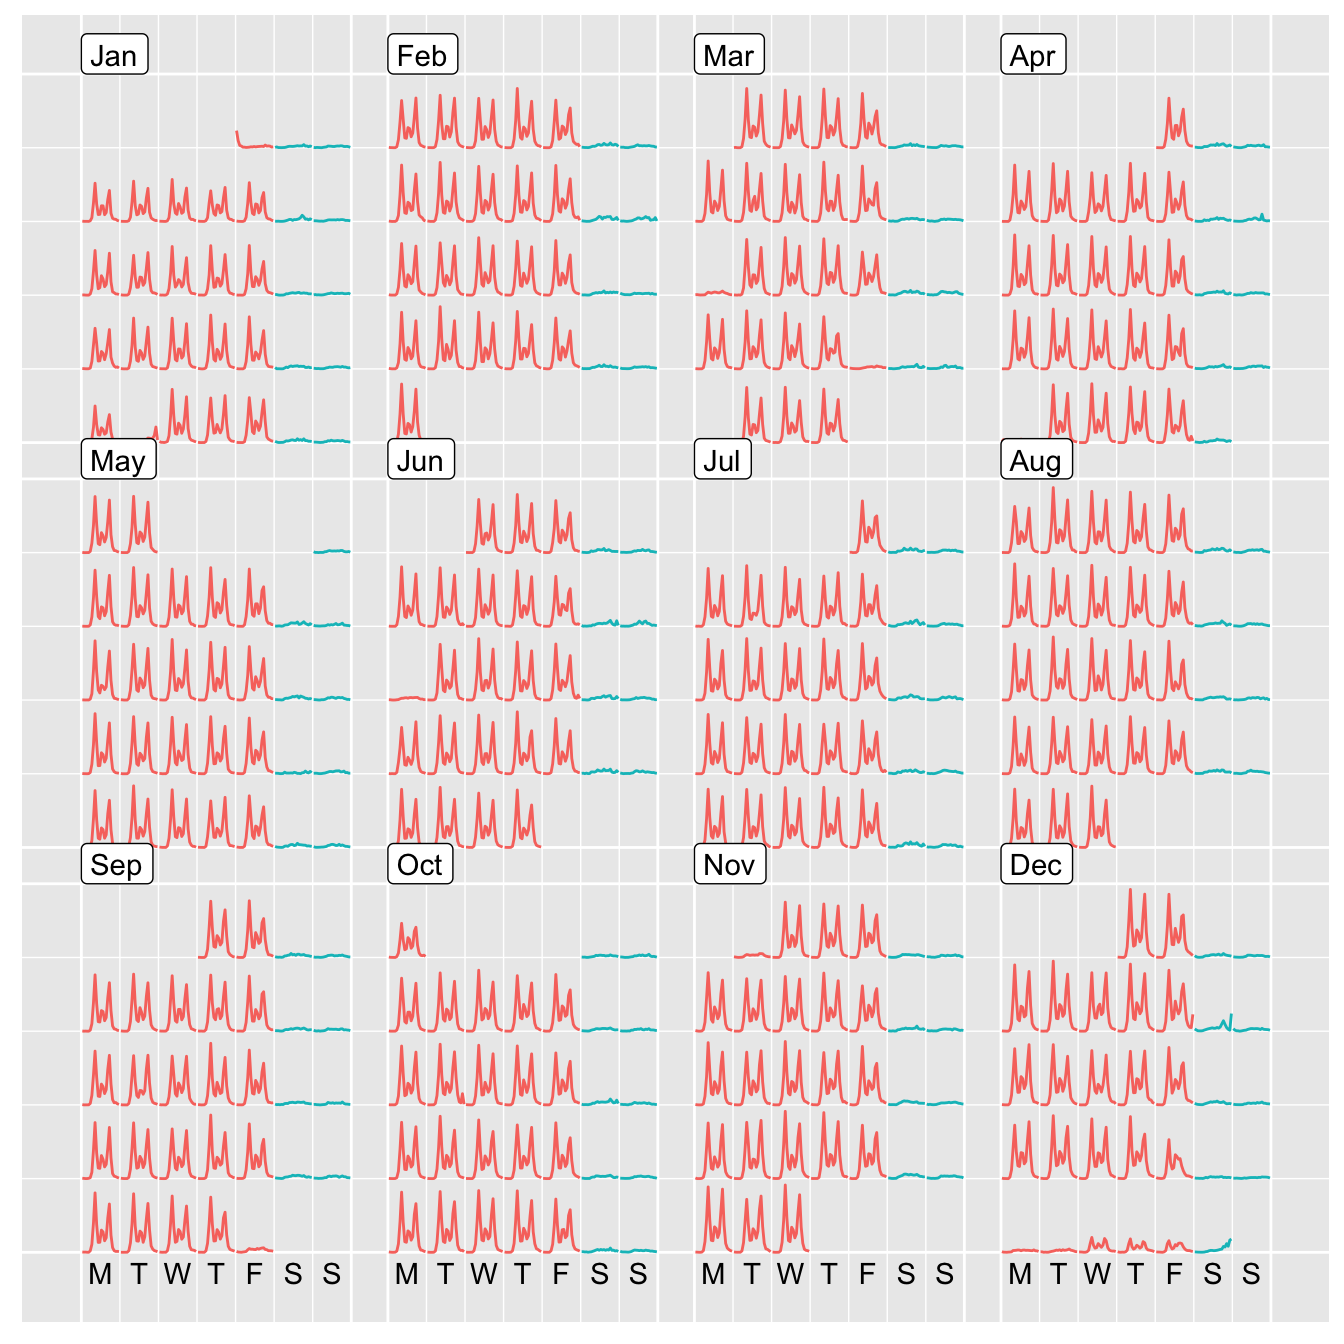
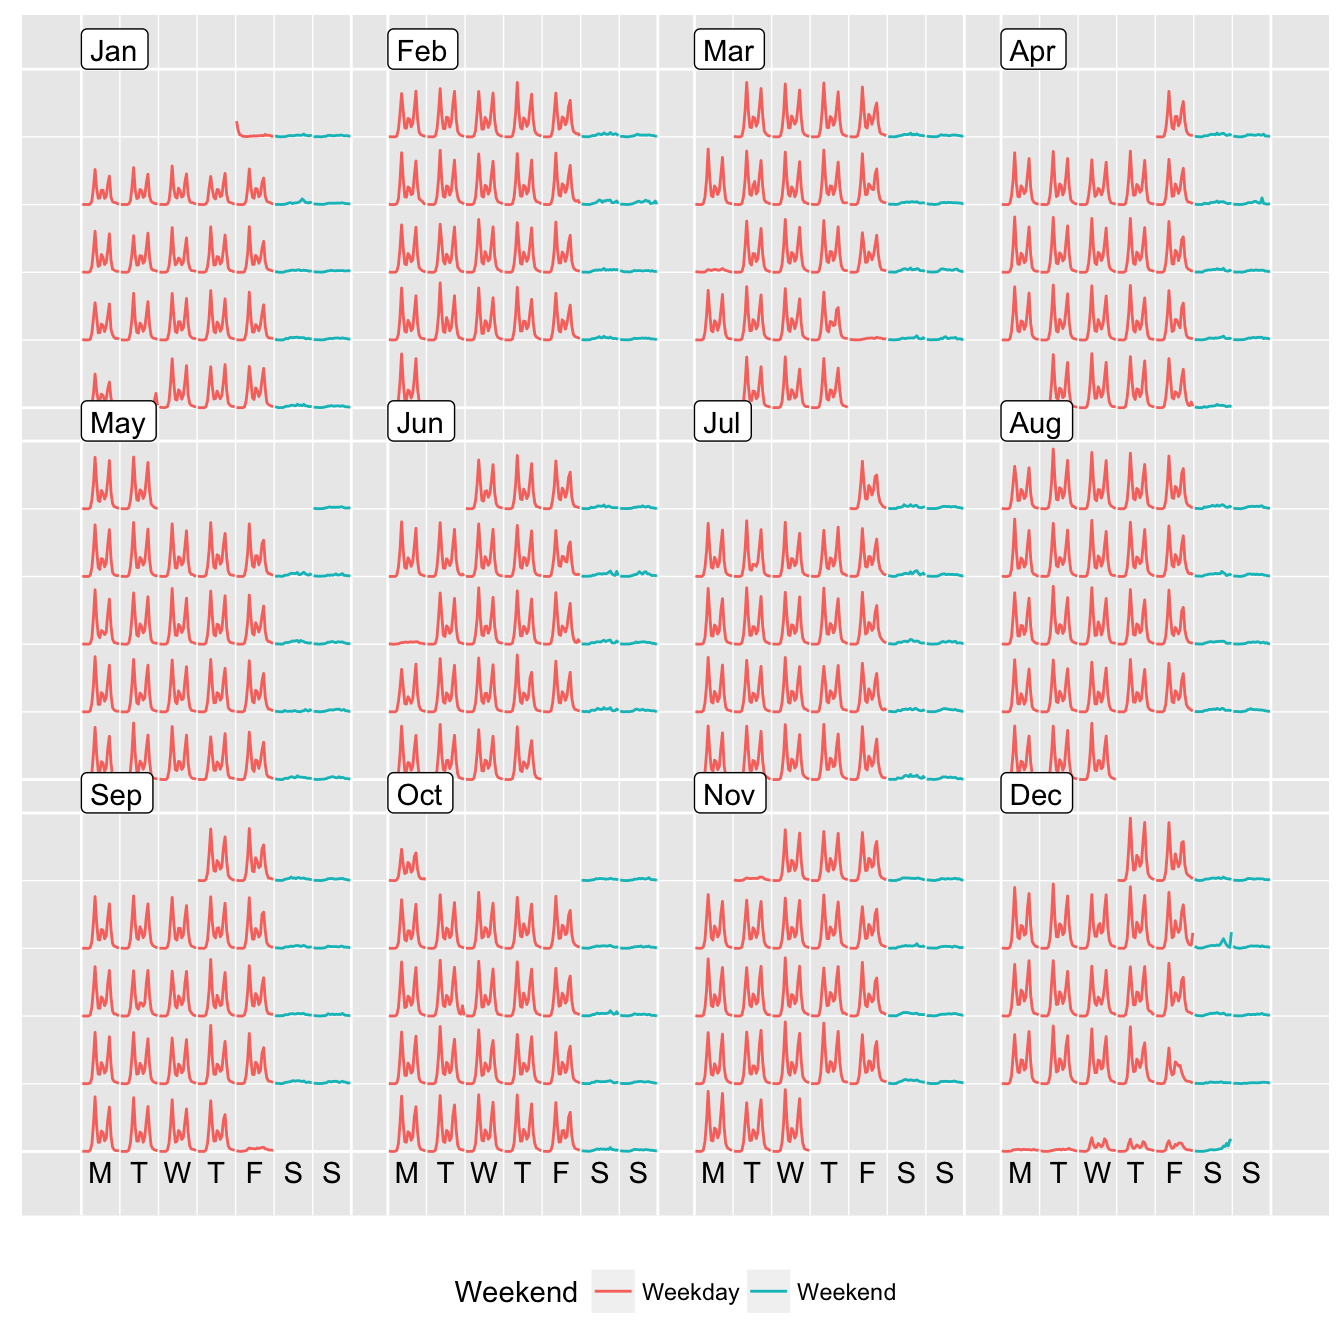
ready for winbuild

diff --git a/docs/index.html b/docs/index.html
@@ -76,7 +76,9 @@
 <div id="installation" class="section level2">
 <h2 class="hasAnchor">
 <a href="#installation" class="anchor"></a>Installation</h2>
-<p>You could install the development version from Github using</p>
+<p>You could install the stable version on CRAN:</p>
+<div class="sourceCode"><pre class="sourceCode r"><code class="sourceCode r"><span class="kw">install.packages</span>(<span class="st">"sugrrants"</span>)</code></pre></div>
+<p>You could also install the development version from Github using:</p>
 <div class="sourceCode"><pre class="sourceCode r"><code class="sourceCode r"><span class="co"># install.packages("devtools")</span>
 devtools<span class="op">::</span><span class="kw"><a href="http://www.rdocumentation.org/packages/devtools/topics/install_github">install_github</a></span>(<span class="st">"earowang/sugrrants"</span>, <span class="dt">build_vignettes =</span> <span class="ot">TRUE</span>)</code></pre></div>
 </div>
@@ -117,7 +119,7 @@ calendar_df
 <div class="sourceCode"><pre class="sourceCode r"><code class="sourceCode r">p &lt;-<span class="st"> </span>calendar_df <span class="op">%&gt;%</span>
 <span class="st">  </span><span class="kw">ggplot</span>(<span class="kw">aes</span>(<span class="dt">x =</span> .Time, <span class="dt">y =</span> .Hourly_Counts, <span class="dt">group =</span> Date, <span class="dt">colour =</span> Weekend)) <span class="op">+</span>
 <span class="st">  </span><span class="kw">geom_line</span>() <span class="op">+</span>
-<span class="st">  </span><span class="kw">theme</span>(<span class="dt">legend.position =</span> <span class="st">"none"</span>)
+<span class="st">  </span><span class="kw">theme</span>(<span class="dt">legend.position =</span> <span class="st">"bottom"</span>)
 <span class="kw"><a href="reference/frame-calendar.html">prettify</a></span>(p)</code></pre></div>
 <p><img src="man/figure/calendar-plot-1.png" width="672"></p>
 </div>
@@ -145,14 +147,16 @@ calendar_df
 <li>
 <a href="http://earo.me">Earo Wang</a> <br><small class="roles"> Author, maintainer </small> </li>
 <li>
-<a href="http://dicook.org">Di Cook</a> <br><small class="roles"> Author </small> </li>
+<a href="http://dicook.org">Di Cook</a> <br><small class="roles"> Author, thesis advisor </small> </li>
 <li>
-<a href="http://robjhyndman.com">Rob Hyndman</a> <br><small class="roles"> Author </small> </li>
+<a href="http://robjhyndman.com">Rob Hyndman</a> <br><small class="roles"> Author, thesis advisor </small> </li>
 </ul>
 <h2>Dev status</h2>
 <ul class="list-unstyled">
 <li><a href="https://travis-ci.org/earowang/sugrrants"><img src="https://travis-ci.org/earowang/sugrrants.svg?branch=master" alt="Travis-CI Build Status"></a></li>
+<li><a href="https://codecov.io/github/earowang/sugrrants?branch=master"><img src="https://img.shields.io/codecov/c/github/earowang/sugrrants/master.svg" alt="Coverage Status"></a></li>
 <li><a href="https://cran.r-project.org/package=sugrrants"><img src="http://www.r-pkg.org/badges/version/sugrrants" alt="CRAN_Status_Badge"></a></li>
+<li><a href="https://cran.r-project.org/package=sugrrants"><img src="http://cranlogs.r-pkg.org/badges/sugrrants" alt="Downloads"></a></li>
 </ul>
 </div>
 

diff --git a/docs/reference/index.html b/docs/reference/index.html
@@ -86,7 +86,7 @@
     <div class="page-header">
       <h1>
         Reference
-        <small>version&nbsp;0.0.1.9000</small>
+        <small>version&nbsp;0.1.0</small>
       </h1>
     </div>
 
@@ -116,7 +116,7 @@ linear algebra</p></td>
       </tbody><tbody>
         <tr>
           <th colspan="2">
-            <h2 id="section-geoms-and-stats-extension-to-temporal-context-data" class="hasAnchor"><a href="#section-geoms-and-stats-extension-to-temporal-context-data" class="anchor"></a>Geoms and stats extension to temporal-context data</h2>
+            <h2 id="section-geoms-and-stats-extension-for-temporal-context-data" class="hasAnchor"><a href="#section-geoms-and-stats-extension-for-temporal-context-data" class="anchor"></a>Geoms and stats extension for temporal-context data</h2>
             <p class="section-desc"></p>
           </th>
         </tr>
@@ -125,13 +125,13 @@ linear algebra</p></td>
           <td>
             <p><code><a href="sugrrants-geom.html">geom_acf</a></code> </p>
           </td>
-          <td><p>Compute autocorrelation for temporal data</p></td>
+          <td><p>Autocorrelation for temporal data</p></td>
         </tr><tr>
           <!--  -->
           <td>
             <p><code><a href="stat_acf.html">stat_acf</a></code> </p>
           </td>
-          <td><p>Compute autocorrelation for temporal data</p></td>
+          <td><p>Autocorrelation for temporal data</p></td>
         </tr>
       </tbody><tbody>
         <tr>
@@ -156,7 +156,7 @@ linear algebra</p></td>
     <h2>Contents</h2>
     <ul class="nav nav-pills nav-stacked">
       <li><a href="#section-calendar-based-graphics">Calendar based graphics</a></li>
-      <li><a href="#section-geoms-and-stats-extension-to-temporal-context-data">Geoms and stats extension to temporal-context data</a></li>
+      <li><a href="#section-geoms-and-stats-extension-for-temporal-context-data">Geoms and stats extension for temporal-context data</a></li>
       <li><a href="#section-handle-temporal-components">Handle temporal components</a></li>
     </ul>
   </div>

diff --git a/docs/news/index.html b/docs/news/index.html
@@ -89,13 +89,14 @@
     </div>
 
     <div class="contents">
-    <div id="sugrrants-0-0-1" class="section level1">
+    <div id="sugrrants-0-1-0" class="section level1">
 <h1 class="hasAnchor">
-<a href="#sugrrants-0-0-1" class="anchor"></a>sugrrants 0.0.1</h1>
+<a href="#sugrrants-0-1-0" class="anchor"></a>sugrrants 0.1.0</h1>
 <ul>
+<li>Initial release</li>
 <li>Added a <code>NEWS.md</code> file to track changes to the package.</li>
-<li>Added <code>frame_calendar</code> function to compute calendar grids for visual representation of temporal data, coupled with a vignette.</li>
-<li>Added <code>geom_acf</code> and <code>stat_acf</code> functions to incorporate ACF/PACF plots into the grammar of graphics framework.</li>
+<li>Added the <code><a href="../reference/frame-calendar.html">frame_calendar()</a></code> function to compute calendar grids for visual representation of temporal data, coupled with a vignette.</li>
+<li>Added the <code><a href="../reference/sugrrants-geom.html">geom_acf()</a></code> and <code><a href="../reference/stat_acf.html">stat_acf()</a></code> functions to incorporate ACF/PACF plots into the grammar of graphics framework.</li>
 </ul>
 </div>
     </div>
@@ -105,7 +106,7 @@
     <div id="tocnav">
       <h2>Contents</h2>
       <ul class="nav nav-pills nav-stacked">
-        <li><a href="#sugrrants-0-0-1">0.0.1</a></li>
+        <li><a href="#sugrrants-0-1-0">0.1.0</a></li>
       </ul>
     </div>
   </div>

diff --git a/docs/reference/stat_acf.html b/docs/reference/stat_acf.html
@@ -6,7 +6,7 @@
 <meta http-equiv="X-UA-Compatible" content="IE=edge">
 <meta name="viewport" content="width=device-width, initial-scale=1.0">
 
-<title>Compute autocorrelation for temporal data — stat_acf • sugrrants</title>
+<title>Autocorrelation for temporal data — stat_acf • sugrrants</title>
 
 <!-- jquery -->
 <script src="https://code.jquery.com/jquery-3.1.0.min.js" integrity="sha384-nrOSfDHtoPMzJHjVTdCopGqIqeYETSXhZDFyniQ8ZHcVy08QesyHcnOUpMpqnmWq" crossorigin="anonymous"></script>
@@ -84,7 +84,7 @@
       <div class="row">
   <div class="col-md-9 contents">
     <div class="page-header">
-    <h1>Compute autocorrelation for temporal data</h1>
+    <h1>Autocorrelation for temporal data</h1>
     </div>
 
     

diff --git a/docs/reference/sugrrants-geom.html b/docs/reference/sugrrants-geom.html
@@ -6,7 +6,7 @@
 <meta http-equiv="X-UA-Compatible" content="IE=edge">
 <meta name="viewport" content="width=device-width, initial-scale=1.0">
 
-<title>Compute autocorrelation for temporal data — geom_acf • sugrrants</title>
+<title>Autocorrelation for temporal data — geom_acf • sugrrants</title>
 
 <!-- jquery -->
 <script src="https://code.jquery.com/jquery-3.1.0.min.js" integrity="sha384-nrOSfDHtoPMzJHjVTdCopGqIqeYETSXhZDFyniQ8ZHcVy08QesyHcnOUpMpqnmWq" crossorigin="anonymous"></script>
@@ -84,7 +84,7 @@
       <div class="row">
   <div class="col-md-9 contents">
     <div class="page-header">
-    <h1>Compute autocorrelation for temporal data</h1>
+    <h1>Autocorrelation for temporal data</h1>
     </div>
 
     

diff --git a/docs/authors.html b/docs/authors.html
@@ -93,11 +93,11 @@
         </p>
       </li>
       <li>
-        <p><strong><a href='http://dicook.org'>Di Cook</a></strong>. Author.
+        <p><strong><a href='http://dicook.org'>Di Cook</a></strong>. Author, thesis&nbsp;advisor.
         </p>
       </li>
       <li>
-        <p><strong><a href='http://robjhyndman.com'>Rob Hyndman</a></strong>. Author.
+        <p><strong><a href='http://robjhyndman.com'>Rob Hyndman</a></strong>. Author, thesis&nbsp;advisor.
         </p>
       </li>
     </ul>

diff --git a/docs/articles/index.html b/docs/articles/index.html
@@ -82,7 +82,7 @@
       </header>
 
       <div class="page-header">
-  <h1>Articles <small>version&nbsp;0.0.1.9000</small></h1>
+  <h1>Articles <small>version&nbsp;0.1.0</small></h1>
 </div>
 
 <div class="row">

diff --git a/NEWS.md b/NEWS.md
@@ -1,7 +1,6 @@
-# sugrrants 0.0.1
+# sugrrants 0.1.0
 
+* Initial release
 * Added a `NEWS.md` file to track changes to the package.
-* Added `frame_calendar` function to compute calendar grids for visual representation of temporal data, coupled with a vignette.
-* Added `geom_acf` and `stat_acf` functions to incorporate ACF/PACF plots into the grammar of graphics framework.
-
-
+* Added the `frame_calendar()` function to compute calendar grids for visual representation of temporal data, coupled with a vignette.
+* Added the `geom_acf()` and `stat_acf()` functions to incorporate ACF/PACF plots into the grammar of graphics framework.
